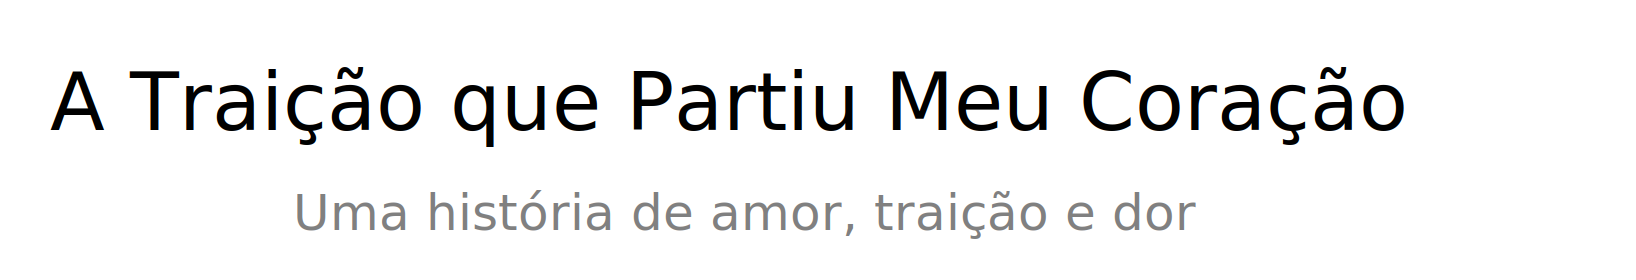
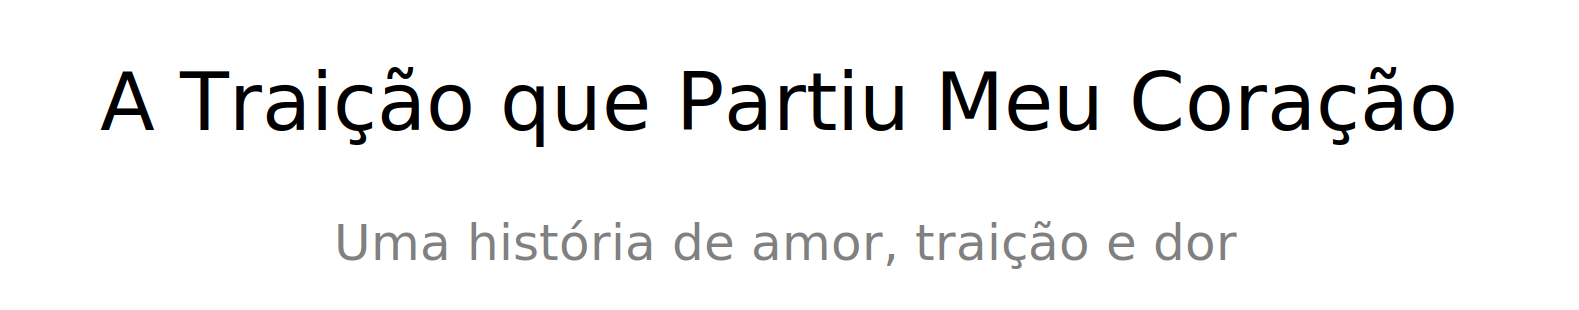
Fixing cover config

Changed region(s): [[0.031, 0.2, 0.931, 0.5143], [0.1552, 0.6857, 0.8068, 0.8571]]

diff --git a/services/cover_service.py b/services/cover_service.py
@@ -1,23 +1,24 @@
 import tempfile
+from entities import config
 import svgwrite
 import cairosvg
 from entities.editor import image_clip
 
-def __generate_svg_cover(title, subtitle, output_path="cover.png"):
-    font_path = "assets/kite_one.ttf"  # Substitua pelo caminho da sua fonte personalizada
-    title_font_size = 80
-    subtitle_font_size = 50
-    padding = 50
+def __generate_svg_cover(title:str, subtitle:str, output_path:str, config:config.CoverConfig = config.CoverConfig()):
+    font_path = config.font_path
+    title_font_size = config.title_font_size
+    subtitle_font_size = config.subtitle_font_size
+    padding = config.padding
 
     # Criar SVG temporário
     tmp_output_path = f'{tempfile.mktemp()}.svg'
     dwg = svgwrite.Drawing()
     
     # Calcular tamanho do texto (aproximado)
-    title_width = len(title) * title_font_size * 0.6  # Aproximação de largura do texto
-    subtitle_width = len(subtitle) * subtitle_font_size * 0.6
+    title_width = len(title) * title_font_size * config.font_scale_rate
+    subtitle_width = len(subtitle) * subtitle_font_size * config.font_scale_rate
     rect_width = max(title_width, subtitle_width) + 2 * padding
-    rect_height = title_font_size + subtitle_font_size + 3 * padding
+    rect_height = title_font_size + subtitle_font_size + config.line_distance + 2 * padding
 
     # Ajustar tamanho do desenho
     dwg['width'] = f"{rect_width}px"
@@ -27,28 +28,29 @@ def __generate_svg_cover(title, subtitle, output_path="cover.png"):
     dwg.add(dwg.rect(
         insert=(0, 0),
         size=(f"{rect_width}px", f"{rect_height}px"),
-        fill="white",
-        rx=30, ry=30
+        fill=config.background_color,
+        rx=config.rounding_radius,
+        ry=config.rounding_radius
     ))
 
     # Centralizar título
-    title_x = (rect_width - title_width) / 2
+    title_x = (rect_width - title_width) / 2 + padding
     title_y = padding + title_font_size
     dwg.add(dwg.text(
         title,
         insert=(f"{title_x}px", f"{title_y}px"),
-        fill="black",
+        fill=config.title_font_color,
         font_size=f"{title_font_size}px",
         font_family=font_path
     ))
 
     # Centralizar subtítulo
-    subtitle_x = (rect_width - subtitle_width) / 2
-    subtitle_y = title_y + padding + subtitle_font_size
+    subtitle_x = (rect_width - subtitle_width) / 2 + padding
+    subtitle_y = title_y + config.line_distance + subtitle_font_size
     dwg.add(dwg.text(
         subtitle,
         insert=(f"{subtitle_x}px", f"{subtitle_y}px"),
-        fill="gray",
+        fill=config.subtitle_font_color,
         font_size=f"{subtitle_font_size}px",
         font_family=font_path
     ))
@@ -57,7 +59,7 @@ def __generate_svg_cover(title, subtitle, output_path="cover.png"):
     dwg.saveas(tmp_output_path)
     cairosvg.svg2png(url=tmp_output_path, write_to=output_path)
 
-def generate_cover(title, subtitle="") -> image_clip.ImageClip:
+def generate_cover(title:str, subtitle:str, config:config.CoverConfig = config.CoverConfig()) -> image_clip.ImageClip:
     output_path = f'{tempfile.mktemp()}.png' 
-    __generate_svg_cover(title, subtitle, output_path)
+    __generate_svg_cover(title, subtitle, output_path, config)
     return image_clip.ImageClip(output_path)

diff --git a/entities/config.py b/entities/config.py
@@ -1,9 +1,20 @@
 from pydantic import BaseModel, Field
 
+class CoverConfig(BaseModel):
+    font_path: str = Field(None, title="Path to the font file")
+    title_font_size: int = Field(80, title="Title font size")
+    subtitle_font_size: int = Field(50, title="Subtitle font size")
+    padding: int = Field(50, title="Padding")
+    title_font_color: str = Field("#000000", title="Font color")
+    subtitle_font_color: str = Field("#808080", title="Subtitle font color")
+    background_color: str = Field("#FFFFFF", title="Background color")
+    rounding_radius: int = Field(30, title="Rounding radius")
+    font_scale_rate: float = Field(0.578, title="Defines the rate from font size to pixel width")
+    line_distance: int = Field(80, title="Line distance")
+
 class VideoConfig(BaseModel):
     watermark_path: str = Field(None, title="Path to the water mark image")
     background_audio_path: str = Field(None, title="Path to the background audio file")
-    cover_path: str = Field(None, title="Path to the cover image")
     end_silece_seconds: int = Field(3, title="End silence seconds")
     padding: int = Field(50, title="Padding")
     cover_duration: int = Field(5, title="Cover duration")
@@ -14,6 +25,8 @@ class VideoConfig(BaseModel):
 class MainConfig(BaseModel):
     output_path: str = Field(None, title="Path to save the output video")
     history_prompt: str = Field(None, title="Prompt for the history section")
+    test_mode: bool = Field(True, title="Test mode")
     video_config: VideoConfig = Field(VideoConfig(), title="Video configuration")
+    cover_config: CoverConfig = Field(CoverConfig(), title="Cover configuration")
 
 

diff --git a/entities/editor/image_clip.py b/entities/editor/image_clip.py
@@ -3,9 +3,6 @@ from moviepy import editor
 class ImageClip:
     def __init__(self, file_path, clip_width=0, clip_height=0, padding=0):
         self.clip = editor.ImageClip(file_path)
-        self.clip_width = clip_width
-        self.clip_height = clip_height
-        self._fit_width(padding)
     
     def apply_fadein(self, duration):
         self.clip = self.clip.crossfadein(duration)
@@ -19,15 +16,15 @@ class ImageClip:
     def set_start(self, start_time):
         self.clip = self.clip.set_start(start_time)
 
-    def center(self):
+    def center(self, clip_width, clip_height):
         image_width, image_height = self.clip.size
-        pos_x = (self.clip_width - image_width) // 2
-        pos_y = (self.clip_height - image_height) // 2
+        pos_x = (clip_width - image_width) // 2
+        pos_y = (clip_height - image_height) // 2
         self.clip = self.clip.set_position((pos_x, pos_y))
 
-    def _fit_width(self, padding=0):
+    def fit_width(self, clip_width, padding=0):
         image_width, image_height = self.clip.size
         image_aspect_ratio = image_width / image_height
-        new_width = self.clip_width - padding
+        new_width = clip_width - padding
         new_height = int(new_width / image_aspect_ratio)
         self.clip = self.clip.resize(newsize=(new_width, new_height))

diff --git a/proxies/open_api_proxy.py b/proxies/open_api_proxy.py
@@ -9,12 +9,7 @@ def generate_history(prompt:str) -> History:
         messages=[
             {
                 "role": "system", 
-                "content": """
-                    Você é um contador de histórias, e deve contar histórias em uma linguagem
-                    simples e fácil de entender. As histórias contadas devem usar temas que despertem
-                    o interesse do público como brigas de família, injustiças, traições, amores proibidos,
-                    entre outros. As histórias devem ser curtas e objetivas, com no máximo 500 palavras.
-                """
+                "content": "Você é um contador de histórias"
             },
             {
                 "role": "user", 
@@ -30,6 +25,10 @@ def generate_history(prompt:str) -> History:
                     "properties": {
                         "title": {
                             "description": "Título da história",
+                            "type": "string"
+                        },
+                        "subtitle": {
+                            "description": "Subtítulo da história",
                             "type": "string"
                         },
                         "description": {

diff --git a/main.py b/main.py
@@ -5,10 +5,13 @@ from services import video_service
 
 if __name__ == '__main__':
     config = config_service.get_main_config()
-    history = history_service.generate_history(config.history_prompt)
+    if config.test_mode:
+        history = history_service.generate_history(config.history_prompt, source=history_service.Source.SAMPLE)
+    else:
+        history = history_service.generate_history(config.history_prompt, source=history_service.Source.GPT)
     speech = speech_service.synthesize_speech(history.content)
     background_video = video_service.create_video_compilation(speech.clip.duration)
-    cover = cover_service.generate_cover(history.title, history.description)
+    cover = cover_service.generate_cover(history.title, history.subtitle, config.cover_config)
     final_video = video_service.generate_video(
         audio=speech, 
         background_video=background_video,

diff --git a/services/video_service.py b/services/video_service.py
@@ -34,7 +34,8 @@ def generate_video(
 
     width, height = background_video.clip.size
     if cover is not None:
-        cover.center()
+        cover.fit_width(width, config.padding)
+        cover.center(width, height)
         cover.set_duration(config.cover_duration)
         cover.apply_fadeout(1)
         background_video.merge(cover)
@@ -45,7 +46,8 @@ def generate_video(
             clip_height=height,
             padding=config.padding
         )
-        water_mark.center()
+        water_mark.fit_width(width, config.padding)
+        water_mark.center(width, height)
         water_mark.set_duration(audio.clip.duration)
         background_video.merge(water_mark)
     return background_video

diff --git a/entities/history.py b/entities/history.py
@@ -3,6 +3,7 @@ from pydantic import BaseModel, Field
 
 class History(BaseModel):
     title: str = Field('', title="Title of the history")
+    subtitle: str = Field('', title="Subtitle of the history")
     description: str = Field(..., title="Description of the history")
     content: str = Field(..., title="Content of the history")
     hashtags: List[str] = Field(..., title="List of hashtags")
